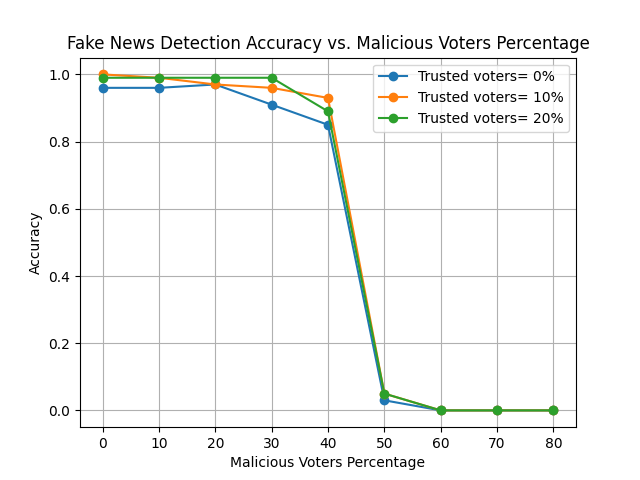
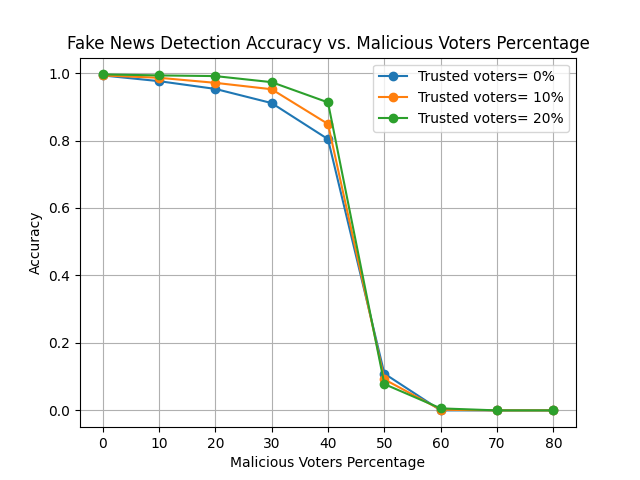
Genrating graphs using average

Changed region(s): [[0.0625, 0.125, 0.9062, 0.875]]

diff --git a/evaluation.py b/evaluation.py
@@ -19,8 +19,11 @@ def main():
 
         accuracies = []
         for malicious_pct in malicious_pct_values:
-            accuracy = run_simulation(num_of_voters, trustworthy_pct, malicious_pct, num_of_news_items)
-            accuracies.append(accuracy)
+            accuracy=0
+            for i in range(10):
+                accuracy+= run_simulation(num_of_voters, trustworthy_pct, malicious_pct, num_of_news_items)
+
+            accuracies.append(accuracy/10)
 
         # Visualize the data
         plt.plot(malicious_pct_values, accuracies, marker='o', label=f'Trusted voters= {trustworthy_pct}%')
